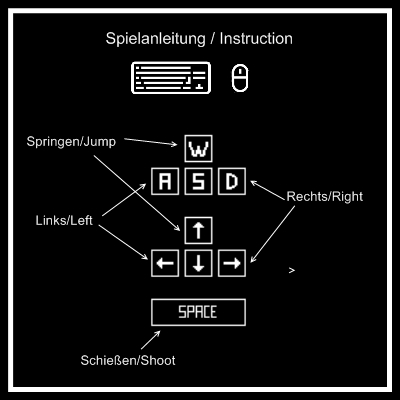
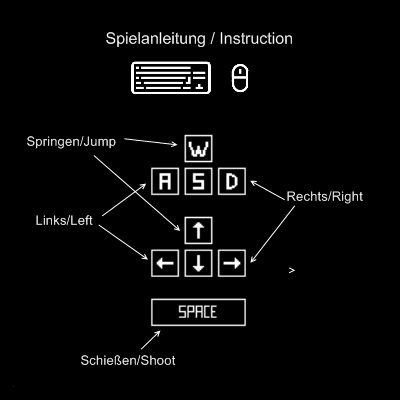
Spielanleitung Klasse überarbeitet

Changed region(s): [[0.0, 0.0, 0.99, 0.99]]

diff --git a/Spielanleitung.java b/Spielanleitung.java
@@ -1,3 +1,5 @@
+import java.awt.*;
+import javax.swing.*;
 
 /**
  * Diese Klasse erzeugt 
@@ -5,7 +7,33 @@
  * @author (Clemens Zander, Shium  Rahman) 
  * @version (24.05.2019)
  */
-public class Spielanleitung
+public class Spielanleitung extends JFrame
 {
+    private int screenWidthMiddle;
+    private int screenHeightMiddle;
     
+    public Spielanleitung(String titel)
+    {
+        super(titel);
+        setDefaultCloseOperation(EXIT_ON_CLOSE);
+        setSize(400,420);
+        getBildschirmmitte();
+        setLocation(screenWidthMiddle, screenHeightMiddle);
+        setLayout(null);
+        setResizable(false);
+        
+        ImageIcon background_image=new ImageIcon("src/pics/spielanleitung.png");
+        JLabel background = new JLabel("",background_image,JLabel.CENTER);
+        background.setBounds(0,0,400,400);
+        
+        add(background);
+        setVisible(true);
+    }
+    
+    public void getBildschirmmitte()
+    {
+        Dimension d = this.getToolkit().getScreenSize();//
+        screenWidthMiddle = ((int) ((d.getWidth() - this.getWidth()) / 2));
+        screenHeightMiddle = ((int) ((d.getHeight() - this.getHeight()) / 2));
+    }
 }

diff --git a/Hauptmenue.java b/Hauptmenue.java
@@ -40,7 +40,7 @@ public class Hauptmenue extends JFrame implements ActionListener
         getBildschirmmitte();
         setLocation(screenWidthMiddle, screenHeightMiddle);
         setLayout(null);
-        
+        setResizable(false);
         
         ImageIcon background_image=new ImageIcon("src/pics/menu_hintergrund.png");
         JLabel background = new JLabel("",background_image,JLabel.CENTER);
